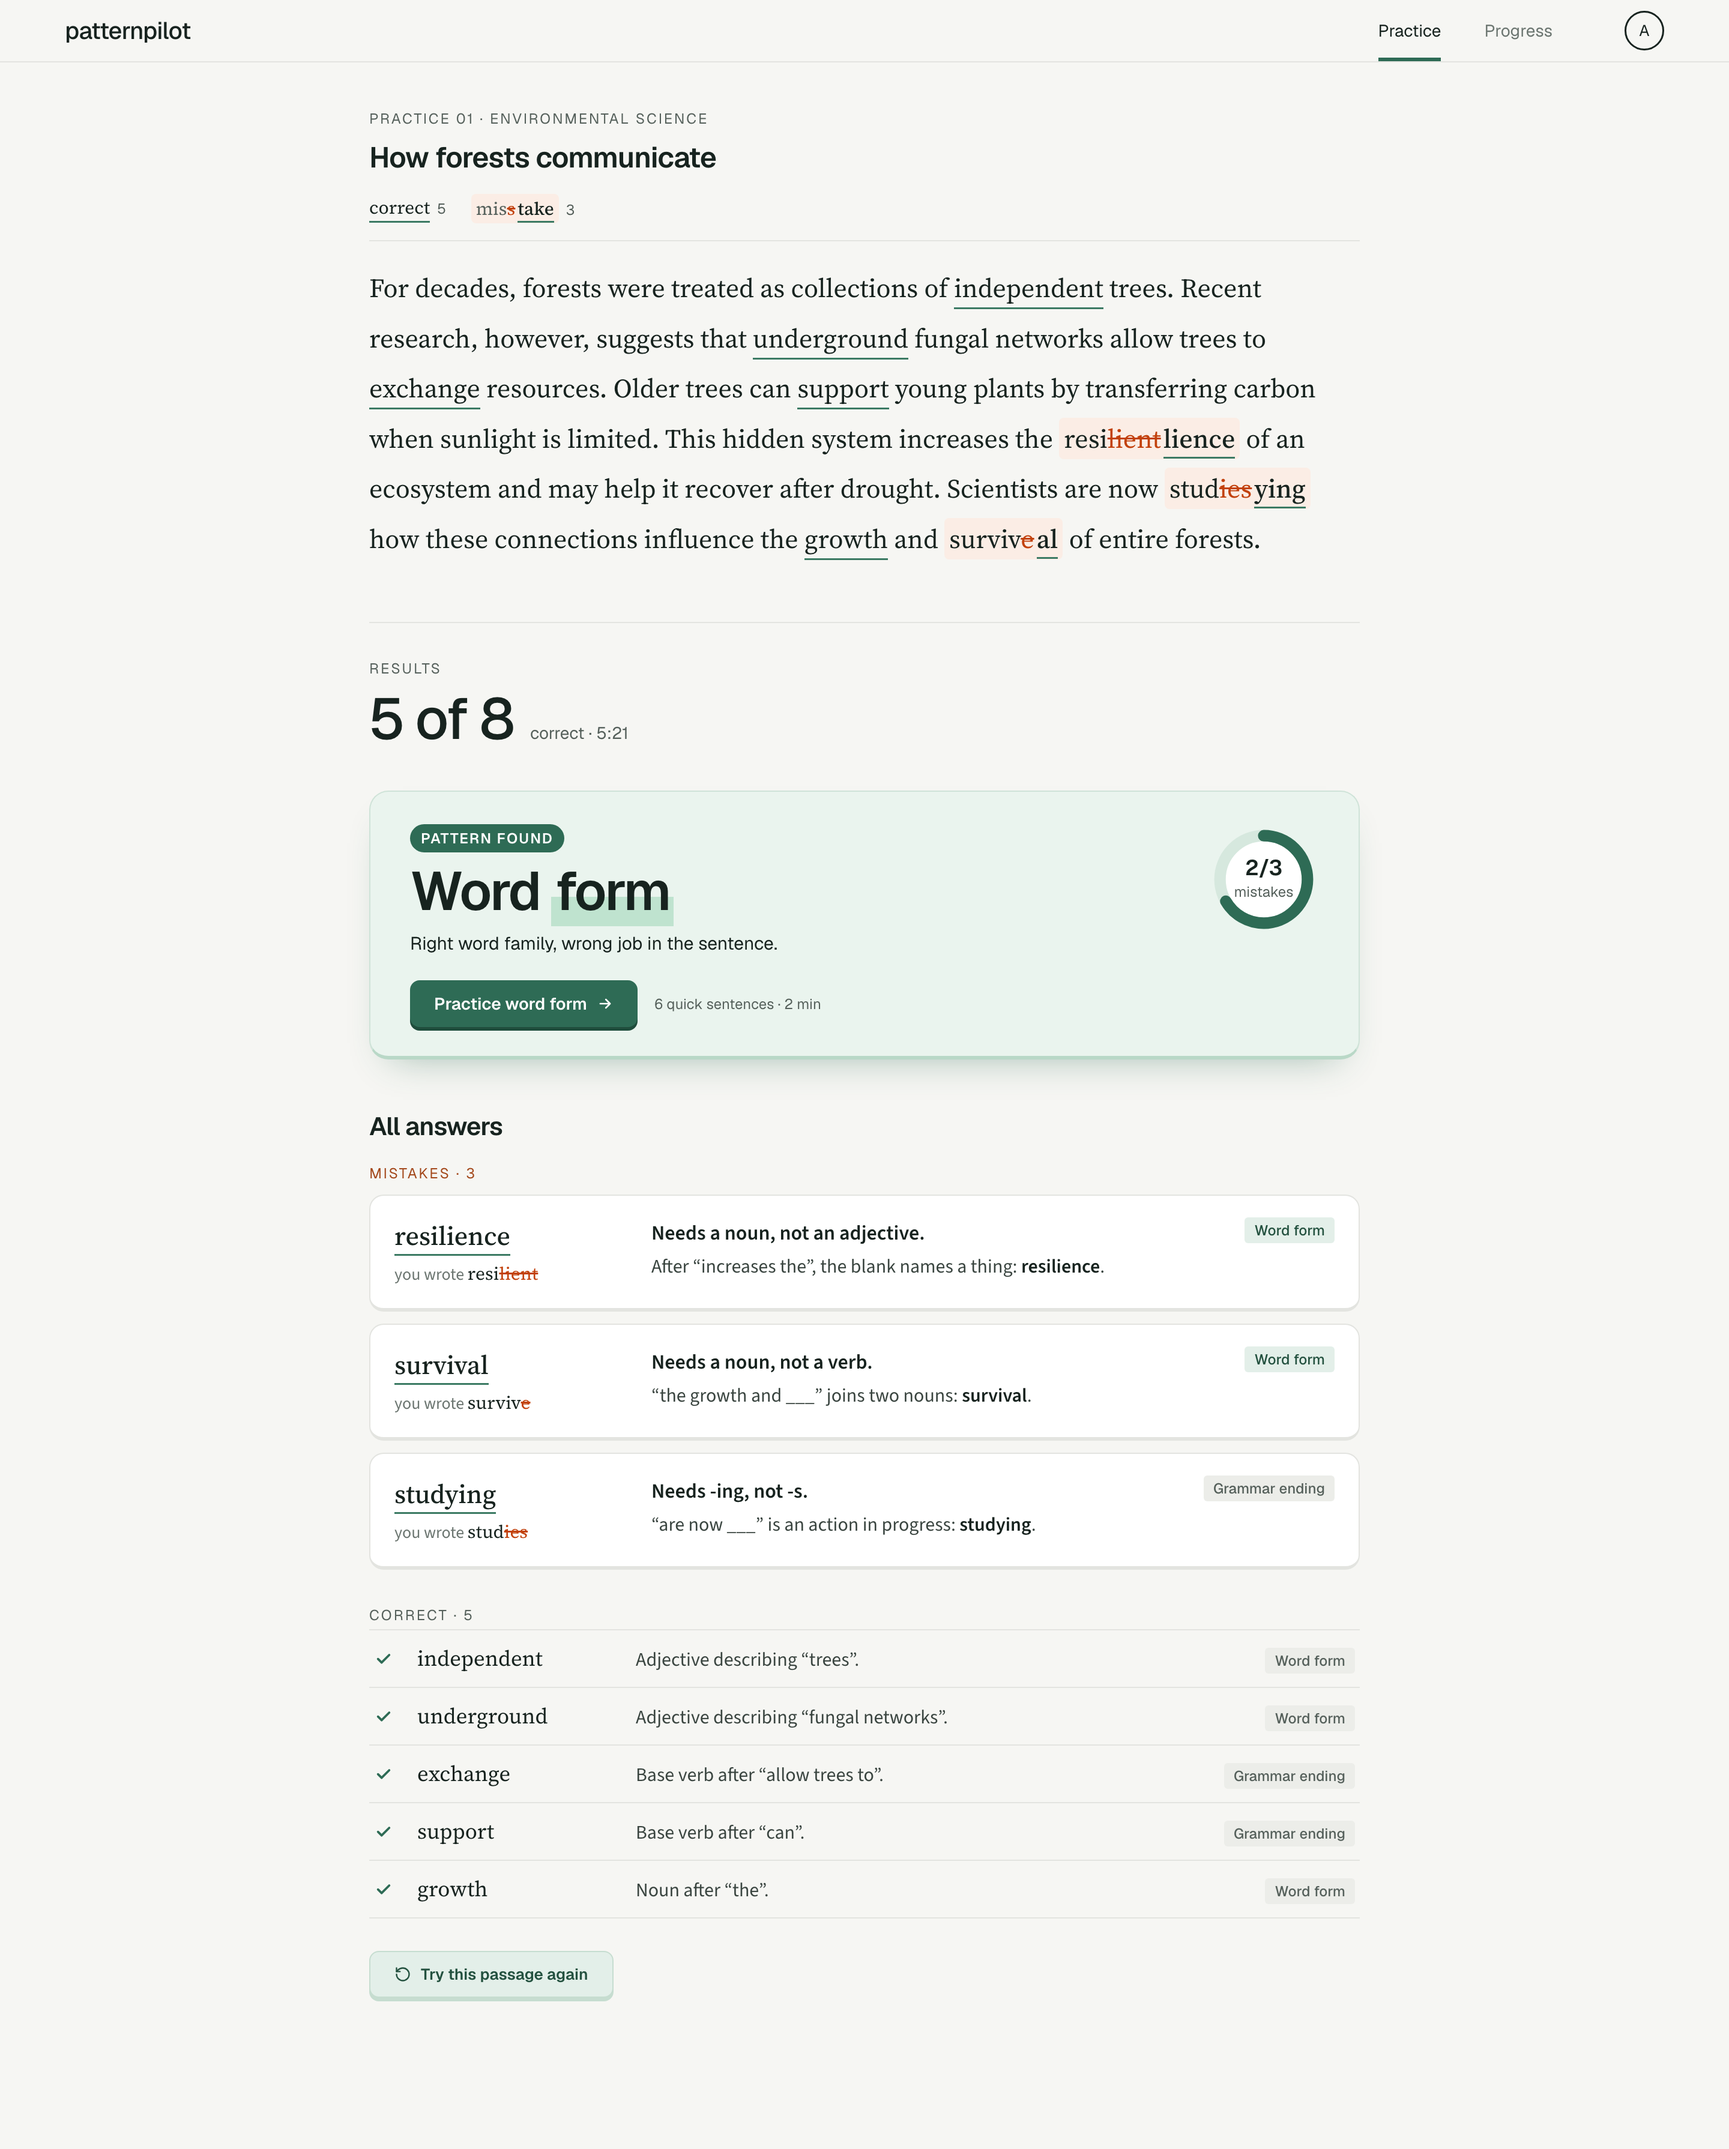
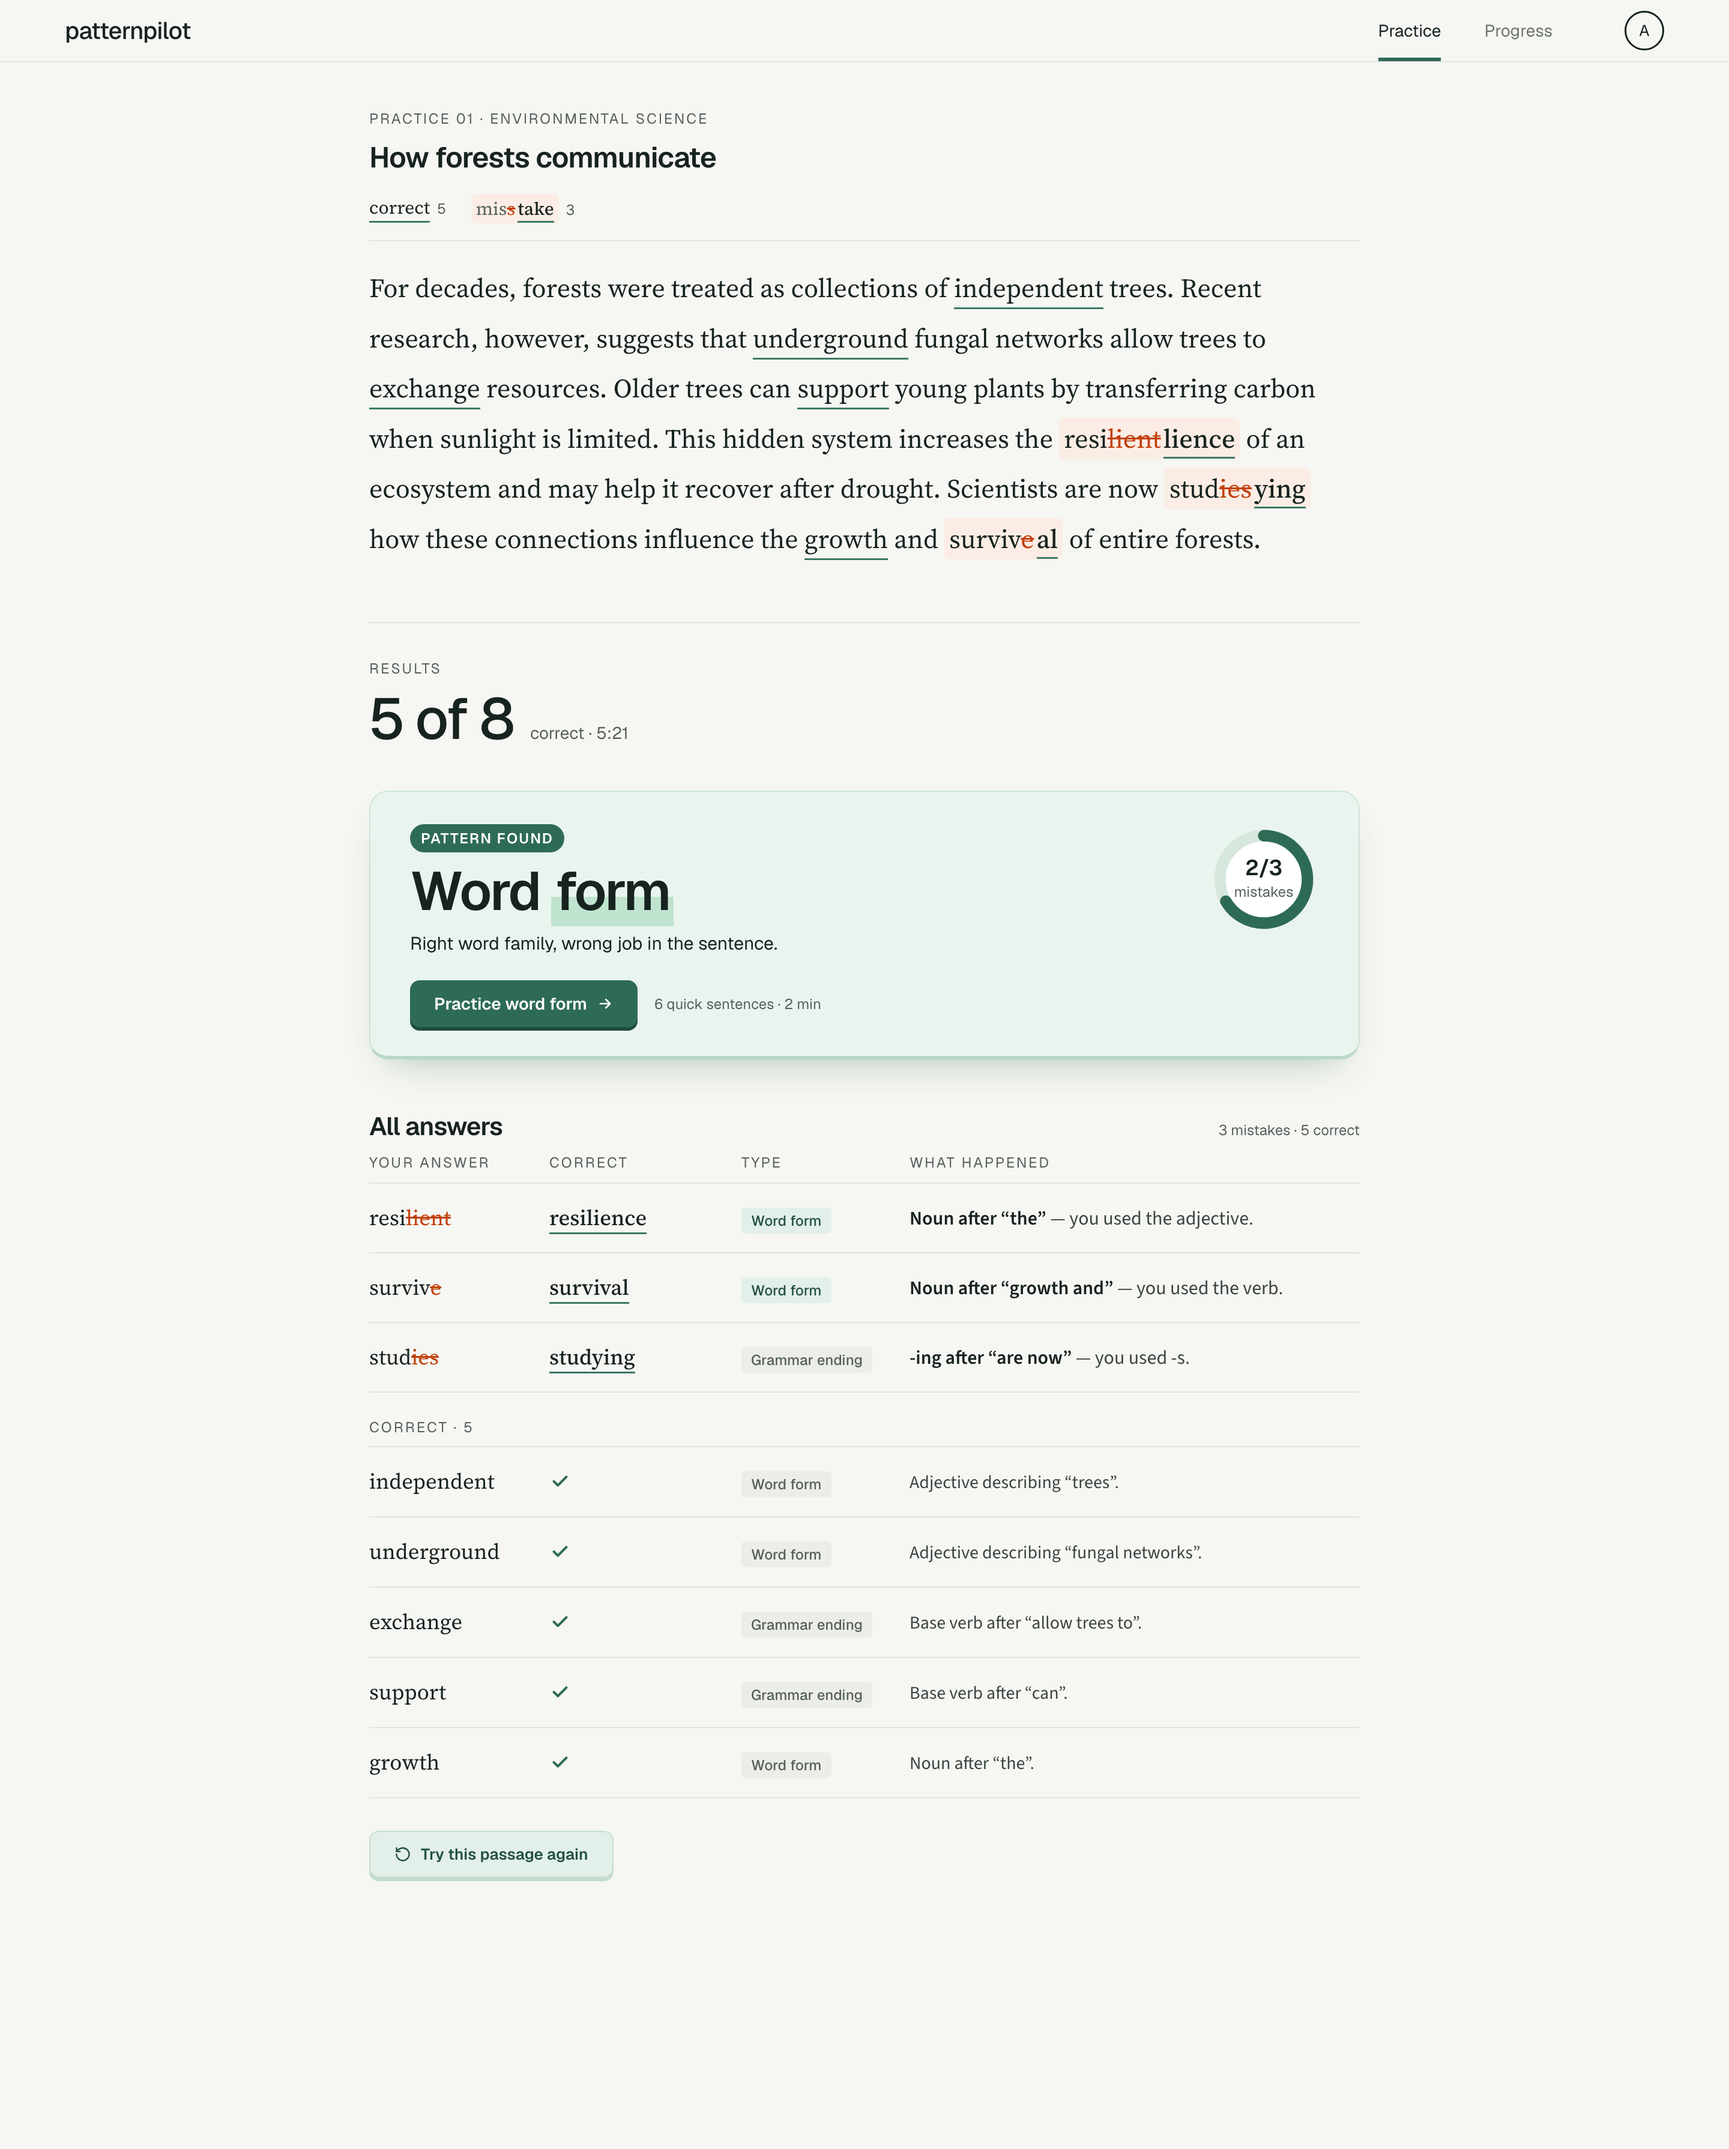
docs: one-line explanations in results table; show accuracy in picker

diff --git a/docs/product.md b/docs/product.md
@@ -153,7 +153,7 @@ Correct answers get only a **Why** line.
   - Empty: a gray short line under each missing letter.
   - Typing: the current word gets a green-tint background. Typed letters have a green underline **below** the letter, never through it. Show a caret.
   - Filled: the whole word gets a green underline.
-- **Practice picker:** never use the browser's native `<select>` menu. The trigger is plain text *"Practice 01"* with a chevron; when open it gets a green-tint background. The menu is a white card (12px radius, 1px border, 3px bottom edge, soft shadow), about 340px wide. Each row is at least 44px tall and shows: number (`01`), passage title, topic · time, and on the right the status: a green check for the current practice, the last score (e.g. `6/8`) for finished ones, or a green-tint **New** tag. The selected row has a green-tint background. See `docs/design/05-practice-picker.png`.
+- **Practice picker:** never use the browser's native `<select>` menu. The trigger is plain text *"Practice 01"* with a chevron; when open it gets a green-tint background. The menu is a white card (12px radius, 1px border, 3px bottom edge, soft shadow), about 340px wide. Each row is at least 44px tall and shows: number (`01`), passage title, topic · time, and on the right the status: a green check for the current practice, the last accuracy for finished ones (e.g. **75%** in bold with a small *"correct"* below it), or a green-tint **New** tag. The selected row has a green-tint background. See `docs/design/05-practice-picker.png`.
 - **Pattern tags:** 4px radius. Tint `#E3EFE9` for the learner's main pattern, neutral gray for other types.
 
 ### Screens
@@ -169,9 +169,8 @@ Correct answers get only a **Why** line.
 - **Below: the results** (the page opens scrolled to this point, but a line or two of the passage should still show at the top so learners know they can scroll up):
   - `5 of 8 correct · 5:21`
   - **Pattern card** (mint, 22px radius): a solid green *PATTERN FOUND* badge, the pattern name in large type with a highlighter mark (e.g., *Word **form***), one line of feedback (*"Right word family, wrong job in the sentence."*), a ring showing *2/3 mistakes*, and the **Practice word form →** button with *"6 quick sentences · 2 min"*.
-  - **All answers**, in two parts:
-    - **Mistakes** (label in mistake orange): one white card per mistake (12px radius, 1px border, 3px bottom edge). Left: the correct word large in serif with a green underline, and below it small *"you wrote"* plus the learner's answer with the wrong letters crossed out. Middle: a **bold one-line headline** that says the fix (e.g. *"Needs a noun, not an adjective."*), then one short explanation line that points to the signal in the sentence and ends with the correct word in bold. Right: the type tag.
-    - **Correct**: a compact list, one line per word: green check, the word in serif, one short reason (e.g. *"Base verb after 'can'."*), and the type tag on the right.
+  - **All answers table:** four columns: *Your answer · Correct · Type · What happened*. Mistakes come first, then a `CORRECT · 5` subheading. For correct words, the Correct column shows a green check.
+    - **What happened column** (Source Sans 3, 15–16px): **one short line per row**, no YOU/WHY labels, no filler like *"Needs a…, not a…"*. Mistakes: the rule in bold, then a dash and what went wrong, e.g. ***Noun after "the"*** *— you used the adjective.* Correct words: just the rule, e.g. *"Base verb after 'can'."* Keep the same phrasing pattern for both.
   - **Try this passage again** (retry button).
 - **Table rules:** answer words must never break across lines (`white-space: nowrap`); if space is tight, the *What happened* column shrinks instead. Every row, including correct answers, gets its **own** Why line written for that blank (never a generic line like *"Correct form for this sentence."*). The Type tag names the skill that blank tests (from the blank's `errorCategory`), not a guess from the learner's answer.
 - There is no separate review page.
